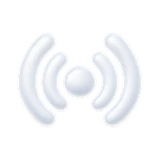
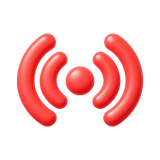
Кружки историй: цветные значки у видимых на главной
Владельцу белые значки «плохо читаются». Он сгенерировал цветные для семи кружков,
которые сейчас на главной: LIVE — красный сигнал, «Выгодно» — лаймовый процент, «Кэф
упал» — янтарная стрелка, «Топ дня» и «Фаворит» — золото, «50 на 50» — хромированная
монета, «Много голов» — чёрно-белый мяч из плитки. Остальные темы пока белые.

Claude-Session: https://claude.ai/code/session_01LqCxNKeCAKNwhNzoBsjYvY

Changed region(s): [[0.0938, 0.1875, 0.9062, 0.8125]]

diff --git a/AGENTS.md b/AGENTS.md
@@ -37,4 +37,4 @@ This block is written and re-added by `next dev` — verify at `node_modules/nex
 - Карточки без обводки (решил владелец): общий класс `.card` (`app/globals.css`) — фон `panel-2`, рамка прозрачная (видна только в режиме высокой контрастности Windows). Плашки внутри карточки — `bg-white/[0.04]` (кэфы в строках матчей — `bg-white/[0.05]`), не `panel-2`: иначе сольются; наведение на карточку-ссылку — `hover:bg-panel-3`; вложенные карточки (турниры внутри «Других турниров») — на тон темнее, `[&_.card]:bg-panel`; липкие ячейки таблиц в карточке — `bg-panel-2`. Линии — только там, где разделяют: строки списков и таблиц, выпадающие меню, календарь, подсказки графиков, капсула меню в шапке; переключатели («По турнирам / По времени», «Вид виджетов») — мягкая заливка без рамки. У сводки в видах «Полосы» и «Цифры» рамки свои — пока владелец выбирает вид.
 - Цвета по смыслу: лайм — «цена выше честной» (сила перевеса — яркостью лайма, `edgeTone` в `components/Flaps.tsx`), янтарь — прогруз, красный — live. Светофор не используем.
 - Для тех, кто не разбирается в цифрах: вывод словами — `lib/verdict.ts` (`buildVerdict`: «Скорее выиграет «X»», голы, падение кэфа, выгодная ставка; `split100` — проценты трёх исходов в сумме ровно 100, `outcomeText`/`outcomeShort` — исход словами вместо «П1»/«ТБ 2.5»). Только факты из данных: про прогруз — «кэф снизился», не «массово ставят». Пороги слов — как у тега #фаворит (60%) и слайда «Кто фаворит» (47%). Без обещаний: только «скорее», «вероятно». В строках и «Матче дня» — только выгодная ставка (обычный прогноз модели бывает «против» вывода). Теги подписаны простыми словами (`label`: `#выгодно`, `#кэф упал`…), slug и адреса прежние; цифра тега — в `TagHit.p`, а не в тексте.
-- Обложки кружков историй: плоские, как карточки — заливка `CIRCLE_BG` (= `--color-panel`), тонкая рамка `ring-edge`, сама обложка — без теней, бликов и зерна (владелец счёл «стеклянную» обложку чужой); кружка «Все теги» нет — в ряду только истории, «Теги» есть в шапке. Значок темы в кружке — объёмная картинка владельца: `public/story-icons/<ключ>.webp` (`artPic` в `lib/story-art.ts`, 40px; `Glyph` в `StoryCircles.tsx`), сгенерированы им в ChatGPT в стиле логотипа — «надутое» белое матовое стекло, сюжеты те же, что у плоских значков ниже (владелец попросил промпт сам: плоские ему не нравились); подготовка — обрезка по предмету (альфа > 60), центр по габаритам, размер по диагонали габаритов (98% стороны 160px — широкие стрелки и круглый мяч на вид одного размера), webp 3–6 КБ; новый значок — файл и ключ в `PICS`. Плоские значки — запасные (нет картинки): `lib/story-art.ts` + `components/story/ArtIcon.tsx`: значки Phosphor Icons, сплошные (fill), копии путей без пакета, лицензия MIT — `licenses/phosphor-icons.txt` (нарисованные вручную прежние владельцу показались кривыми; набор выбрал владелец: «В игре» — трансляция, «Топ дня» — звезда, «Выгодно» — значок с процентом, «Кэф упал» — линия вниз, «Много голов» — мяч, «Мало голов» — щит, «Обе забьют» — стрелки в обе стороны, «Фаворит» — корона, «50 на 50» — полукруг, «Может удивить» — молния, «Серия» — огонь, «Сильны дома» — башня крепости, «Травмы» — пластыри, «Личные встречи» — стрелки навстречу, «Топ-матч» — кубок; значки Apple SF Symbols на сайте нельзя по лицензии) (цвет — только в кольце: лайм не смотрели, красный LIVE, серый просмотрено; цвета тегов `ART` — только для фона просмотрщика). Кольцо (`Ring` в `StoryCircles.tsx`): все сегменты одной толщины 2.5px по радиусу 32, просмотренные — `--color-mute`; не делайте их тоньше или бледнее — кольцо из толстых и тонких дуг владельцу показалось кривым. Фокус с клавиатуры — белый круг вокруг кружка (не рамка вокруг кружка с подписью); у ряда `pt-1.5`, иначе прокрутка ряда срезает этот круг сверху; своя картинка — файл `public/stories/<ключ>.*` (`lib/story-covers.ts`, только сервер). Цифр в кружках нет. В «Афише» кружки другие (владельцу тёмные кружки с иконками показались кнопками-фильтрами, а не историями): на обложке — белый значок темы поверх сильно размытых эмблем матча этой истории (`Smear`: хозяева слева, гости справа, размытие 7px, насыщенность 170%, яркость 65%, прозрачность 85% — остаются только цвета клубов, как фон из обложки альбома в Apple Music; к центру затемнение 60% → 22% под значок, у значка лёгкая тень; приглушили по просьбе владельца: светлые эмблемы давали светлое пятно, и белый мяч «Много голов» на нём терялся; так решил владелец: значок говорит, что за история, а цвета делают кружок «живым»; прежде были две мелкие эмблемы на светлых подложках — тема читалась только из подписи, на 57 пикселях пёстро) поверх заливки цветами клубов (в «Эмблемах» основа почти чёрная, `#1b1a17` → `#0e0e0c`, а не серый графит: на сером размытые эмблемы смешивались в грязные пятна; размытые эмблемы цветные — ряд историй единственный цветной акцент над графитовой карточкой) (`CircleArt`, цвета — те же `matchColors`, считает `DayView`), у кружков разные матчи (`coverMatches`: первыми выбирают кружки, где матчей меньше); кольцо «не смотрели» — белое (лайм — «выгодно» и главные кнопки, на цветных обложках он с ними спорит), LIVE — красное, просмотренное — серое; тема — подписью под кружком. Своя картинка из `public/stories` важнее эмблем.
+- Обложки кружков историй: плоские, как карточки — заливка `CIRCLE_BG` (= `--color-panel`), тонкая рамка `ring-edge`, сама обложка — без теней, бликов и зерна (владелец счёл «стеклянную» обложку чужой); кружка «Все теги» нет — в ряду только истории, «Теги» есть в шапке. Значок темы в кружке — объёмная картинка владельца: `public/story-icons/<ключ>.webp` (`artPic` в `lib/story-art.ts`, 40px; `Glyph` в `StoryCircles.tsx`), сгенерированы им в ChatGPT в стиле логотипа — «надутые» глянцевые, сюжеты те же, что у плоских значков ниже (владелец попросил промпт сам: плоские ему не нравились); сначала были белые (матовое стекло), но владельцу белые «плохо читаются» — теперь цветные: цвет сайта, где он есть по смыслу (LIVE — красный, «Выгодно» — лайм, «Кэф упал» — янтарь), остальное — в настоящих цветах предмета (звезда и корона — золото, монета «50 на 50» — хром, мяч — чёрно-белый, тот же, что в плитке «Голевые матчи»); цветные пока только у видимых на главной (`live`, `top`, `value`, `progruz`, `tb-2-5`, `favorit`, `ravnye`), остальные — белые, пока владелец не догенерирует (промпты — те же, строка `Colors` по таблице); подготовка — обрезка по предмету (альфа > 60), центр по габаритам, размер по диагонали габаритов (98% стороны 160px — широкие стрелки и круглый мяч на вид одного размера), webp 3–6 КБ; новый значок — файл и ключ в `PICS`. Плоские значки — запасные (нет картинки): `lib/story-art.ts` + `components/story/ArtIcon.tsx`: значки Phosphor Icons, сплошные (fill), копии путей без пакета, лицензия MIT — `licenses/phosphor-icons.txt` (нарисованные вручную прежние владельцу показались кривыми; набор выбрал владелец: «В игре» — трансляция, «Топ дня» — звезда, «Выгодно» — значок с процентом, «Кэф упал» — линия вниз, «Много голов» — мяч, «Мало голов» — щит, «Обе забьют» — стрелки в обе стороны, «Фаворит» — корона, «50 на 50» — полукруг, «Может удивить» — молния, «Серия» — огонь, «Сильны дома» — башня крепости, «Травмы» — пластыри, «Личные встречи» — стрелки навстречу, «Топ-матч» — кубок; значки Apple SF Symbols на сайте нельзя по лицензии) (цвет — только в кольце: лайм не смотрели, красный LIVE, серый просмотрено; цвета тегов `ART` — только для фона просмотрщика). Кольцо (`Ring` в `StoryCircles.tsx`): все сегменты одной толщины 2.5px по радиусу 32, просмотренные — `--color-mute`; не делайте их тоньше или бледнее — кольцо из толстых и тонких дуг владельцу показалось кривым. Фокус с клавиатуры — белый круг вокруг кружка (не рамка вокруг кружка с подписью); у ряда `pt-1.5`, иначе прокрутка ряда срезает этот круг сверху; своя картинка — файл `public/stories/<ключ>.*` (`lib/story-covers.ts`, только сервер). Цифр в кружках нет. В «Афише» кружки другие (владельцу тёмные кружки с иконками показались кнопками-фильтрами, а не историями): на обложке — белый значок темы поверх сильно размытых эмблем матча этой истории (`Smear`: хозяева слева, гости справа, размытие 7px, насыщенность 170%, яркость 65%, прозрачность 85% — остаются только цвета клубов, как фон из обложки альбома в Apple Music; к центру затемнение 60% → 22% под значок, у значка лёгкая тень; приглушили по просьбе владельца: светлые эмблемы давали светлое пятно, и белый мяч «Много голов» на нём терялся; так решил владелец: значок говорит, что за история, а цвета делают кружок «живым»; прежде были две мелкие эмблемы на светлых подложках — тема читалась только из подписи, на 57 пикселях пёстро) поверх заливки цветами клубов (в «Эмблемах» основа почти чёрная, `#1b1a17` → `#0e0e0c`, а не серый графит: на сером размытые эмблемы смешивались в грязные пятна; размытые эмблемы цветные — ряд историй единственный цветной акцент над графитовой карточкой) (`CircleArt`, цвета — те же `matchColors`, считает `DayView`), у кружков разные матчи (`coverMatches`: первыми выбирают кружки, где матчей меньше); кольцо «не смотрели» — белое (лайм — «выгодно» и главные кнопки, на цветных обложках он с ними спорит), LIVE — красное, просмотренное — серое; тема — подписью под кружком. Своя картинка из `public/stories` важнее эмблем.
